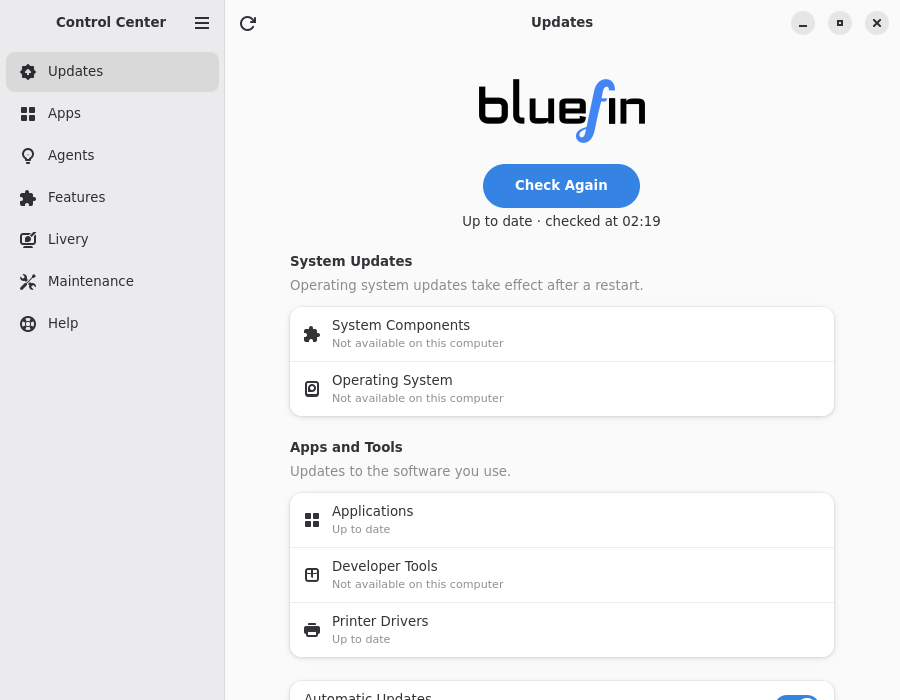
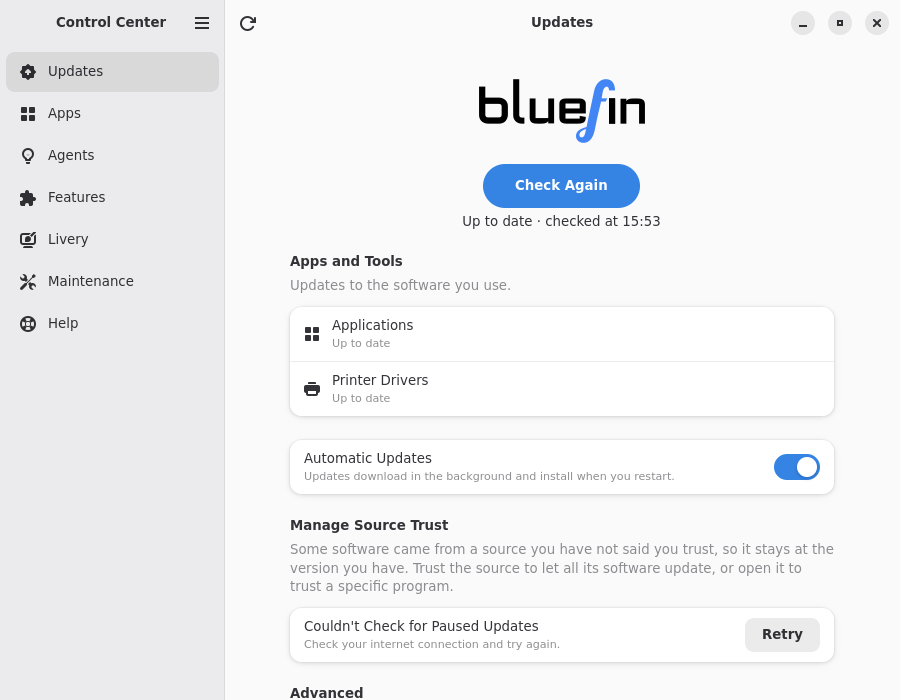
fix(updates): omit update sources this computer cannot use
The Updates page listed a row for every update source, including ones
nobody on the machine could use. In the report on #675 the page read
"Up to date · checked at 21:42" directly above "System Components —
Disabled by administrator" and "Operating System — Not available on this
computer", and the repository's own walkthrough screenshot carried the
same rows.

Neither string described anything the reader could change or act on, and
"Disabled by administrator" named an actor who may not exist: Bluefin
ships /usr/share/chairlift/config.yml with features_page.features_group
disabled because updex is not present on the image, so that source is off
in the image itself and no administrator has a choice to make.

updatepresent.ShowSourceRow now decides that a source configuration
disables for the whole machine, or that this host cannot back, gets no
row; renderSources filters through it and hides a group left with no rows.
A source the user merely turned off keeps its row, because Preferences is
where it can be turned back on, and Preferences still lists every source
with its lock reason, so nothing the application does not update becomes
undiscoverable. The remaining rows are exactly the sources the page
checked, so its single status line no longer has to qualify itself.

Verified: make ci (CI mirror passed); make e2e-atspi with
ATSPI_TAGS='@updates or @config' on Dakota (2 features passed, 46
scenarios passed, 0 failed); make screenshots regenerated
[…]

diff --git a/internal/views/update_shell.go b/internal/views/update_shell.go
@@ -707,9 +707,37 @@ func (s *UpdateShell) renderProgress(snapshot updateflow.Snapshot) {
 	}
 }
 
+// systemSource reports whether a source belongs to the "System Updates" group
+// rather than "Apps and Tools".
+func systemSource(id updateflow.SourceID) bool {
+	return id == updateflow.OperatingSystem || id == updateflow.SystemComponents
+}
+
 func (s *UpdateShell) renderSources(states []updateflow.SourceState) {
-	rebuild := len(states) != len(s.sourceRows)
+	// A source configuration disables, or that this host cannot back, gets no
+	// row at all (#675): its only possible subtitle would describe a state the
+	// reader can neither change nor act on. The remaining sources are the ones
+	// the page actually checked, so its status line no longer has to qualify
+	// itself. Preferences still lists every source, locked switch included.
+	shown := make([]updateflow.SourceState, 0, len(states))
+	systems, apps := false, false
 	for _, state := range states {
+		if !updatepresent.ShowSourceRow(state) {
+			continue
+		}
+		shown = append(shown, state)
+		if systemSource(state.ID) {
+			systems = true
+		} else {
+			apps = true
+		}
+	}
+	// An emptied group would render as a titled, described box with no rows.
+	s.systemGroup.SetVisible(systems)
+	s.appsGroup.SetVisible(apps)
+
+	rebuild := len(shown) != len(s.sourceRows)
+	for _, state := range shown {
 		row := s.sourceRows[state.ID]
 		if row == nil || !slices.Equal(row.items, state.Items) ||
 			row.enabled != (state.Configured && state.Available && state.Enabled) {
@@ -718,7 +746,7 @@ func (s *UpdateShell) renderSources(states []updateflow.SourceState) {
 		}
 	}
 	if !rebuild {
-		for _, state := range states {
+		for _, state := range shown {
 			s.sourceRows[state.ID].render(state, !s.Busy() && !updatepresent.ShowProgress(s.snapshot.Phase), s.restartInFlight.Load())
 		}
 		return
@@ -728,9 +756,9 @@ func (s *UpdateShell) renderSources(states []updateflow.SourceState) {
 	}
 	s.updateButtons.clear()
 	clear(s.sourceRows)
-	for _, state := range states {
+	for _, state := range shown {
 		group := s.appsGroup
-		if state.ID == updateflow.OperatingSystem || state.ID == updateflow.SystemComponents {
+		if systemSource(state.ID) {
 			group = s.systemGroup
 		}
 		s.sourceRows[state.ID] = newSourceRow(state, group, s)

diff --git a/internal/views/updatepresent/updatepresent_test.go b/internal/views/updatepresent/updatepresent_test.go
@@ -509,6 +509,32 @@ func TestSnapshotShowsLastCheckedTimeWhenCurrent(t *testing.T) {
 	}
 }
 
+// A source nobody on this machine can use gets no row: its subtitle could only
+// report a state the reader cannot change or act on (#675). A source the user
+// turned off keeps its row, because Preferences can turn it back on.
+func TestShowSourceRowOnlyForUsableSources(t *testing.T) {
+	tests := []struct {
+		name  string
+		state updateflow.SourceState
+		want  bool
+	}{
+		{"configured and available", updateflow.SourceState{Configured: true, Available: true}, true},
+		{"turned off in preferences", updateflow.SourceState{Configured: true, Available: true, Enabled: false}, true},
+		{"disabled in the shipped configuration", updateflow.SourceState{Configured: false, Available: true}, false},
+		{"this host cannot back it", updateflow.SourceState{Configured: true, Available: false}, false},
+		{"neither", updateflow.SourceState{Configured: false, Available: false}, false},
+		{"checking, still usable", updateflow.SourceState{Configured: true, Available: true, Checking: true}, true},
+		{"failed check, still usable", updateflow.SourceState{Configured: true, Available: true, CheckErr: errors.New("boom")}, true},
+	}
+	for _, tc := range tests {
+		t.Run(tc.name, func(t *testing.T) {
+			if got := ShowSourceRow(tc.state); got != tc.want {
+				t.Errorf("ShowSourceRow(%+v) = %v, want %v", tc.state, got, tc.want)
+			}
+		})
+	}
+}
+
 func TestSourceIconMapsProviderKinds(t *testing.T) {
 	tests := []struct {
 		id   updateflow.SourceID

diff --git a/internal/views/updatepresent/updatepresent.go b/internal/views/updatepresent/updatepresent.go
@@ -174,6 +174,21 @@ func soleItemSubtitle(item updateflow.Item) string {
 	}
 }
 
+// ShowSourceRow reports whether a source earns a row on the Updates page. A
+// source the administrator's configuration turns off for the whole machine, or
+// one this host cannot back, is not something this application manages here, so
+// it gets no row: a row whose only content is "you cannot use this" reports a
+// state the reader can neither change nor act on, and wording it as an
+// administrator's choice names an actor who may not exist — the shipped
+// Bluefin configuration disables system components in the image itself
+// (chairlift#675). A source the user merely turned off keeps its row, because
+// Preferences is where it can be turned back on. Preferences still lists every
+// source, so what the application does not update stays discoverable where a
+// reader would go looking to configure it.
+func ShowSourceRow(state updateflow.SourceState) bool {
+	return state.Configured && state.Available
+}
+
 // SourceIcon returns the symbolic icon for a source row. Each source has its
 // own, and Applications and System components match the sidebar's Apps and
 // Features, the pages that manage what they update.

diff --git a/test/e2e/features/steps/updates.py b/test/e2e/features/steps/updates.py
@@ -112,6 +112,25 @@ def step_progress_visibility(context, visibility):
     ), f"Updates progress bar is not {visibility}"
 
 
+@then('the Updates page shows no "{title}" row')
+def step_row_absent(context, title):
+    """A source nobody on this machine can use gets no row (#675).
+
+    Configuration that disables a source for the whole machine, and a host that
+    cannot back one, both leave the page: a row whose only content is "you
+    cannot use this" reports a state the reader can neither change nor act on.
+    """
+
+    def gone():
+        return not atspi.find_all(
+            content(context),
+            lambda n: atspi.role(n) in atspi.ROW_ROLES
+            and any(atspi.name(c) == title for c in atspi.descendants(n, only_showing=True)),
+        )
+
+    assert atspi.poll(gone), f"the Updates page still shows a {title!r} row"
+
+
 # ---------------------------------------------------------------- sidebar badge
 
 

diff --git a/docs/design/overview.md b/docs/design/overview.md
@@ -507,10 +507,15 @@ keeps the two facts apart: `buildUI`'s `sourcePolicy` hands
 `updateflow.Coordinator.Check` a `map[SourceID]updateflow.Policy` whose
 `Configured` is `Config.IsGroupEnabled` and whose `Supported` is
 `Set.Supports`. A source is checked only when both hold and its provider is
-available, exactly as the composed predicate would allow, but a source the host
-cannot back is reported unavailable ("Not available on this computer") rather
-than "Disabled by administrator", which `updatepresent` reserves for
-`Configured` false. The views' own "not installed" placeholder branches that
+available, exactly as the composed predicate would allow, and a source either
+fact leaves out is not listed on the Updates page at all
+(`updatepresent.ShowSourceRow`): a row whose only content would be "you cannot
+use this" reports a state the reader can neither change nor act on, and calling
+it an administrator's choice names an actor who may not exist — the shipped
+Bluefin configuration disables `features_page.features_group` in the image
+itself (#675). Preferences still lists every source, locked switch included, so
+what is not updated stays discoverable where a reader would go to configure it.
+The views' own "not installed" placeholder branches that
 the floor made unreachable were removed in #206.
 
 ### Package manager wrapper pattern
@@ -869,14 +874,17 @@ surface in three layers that must stay separate:
   or timed-out connection), "It took too long." for an exhausted deadline,
   and otherwise "Details are in the log." — a local Flatpak, Homebrew, or
   bootc failure is not told to check a connection it never used. The shell's
-  single-row update and tool-refresh failures use the same hint. A source
-  whose policy has `Configured` false reads "Disabled by administrator"; one
-  that is configured but not `Available` — the provider's own `Available`
-  probe says no, or `Policy.Supported` is false because the capability floor
-  cannot back it — reads "Not available on this computer". Both strings
-  come from `updatepresent.SourceLockReason`, which the Preferences dialog's
-  update-source rows (`pageview.UpdateSourcePreferenceSubtitle`) use too, so
-  the two surfaces never word one source differently. Such a locked source's
+  single-row update and tool-refresh failures use the same hint.
+  `updatepresent.ShowSourceRow` decides which sources get a row at all: one
+  that configuration disables for the whole machine (`Configured` false), or
+  one this host cannot back — the provider's own `Available` probe says no, or
+  `Policy.Supported` is false because the capability floor cannot back it —
+  gets none, and a group left without rows is hidden with them (#675).
+  `updatepresent.SourceLockReason` still supplies the two lock sentences
+  ("Disabled by administrator" for `Configured` false, "Not available on this
+  computer" otherwise), which the Preferences dialog's update-source rows
+  (`pageview.UpdateSourcePreferenceSubtitle`) use too, so the two surfaces
+  never word one source differently. Such a locked source's
   Preferences switch is shown off and insensitive and is not bound to its
   GSettings key (`pageview.UpdateSourcePreferenceLocked`): bound, it showed
   the stored preference — on — beside "Disabled by administrator". `ItemRows`

diff --git a/AGENTS.md b/AGENTS.md
@@ -392,9 +392,16 @@ An agent must not break these:
   The shell hands `Coordinator.Check` each source's `updateflow.Policy` from
   `internal/window`'s `sourcePolicy`, which keeps `Configured`
   (`Config.IsGroupEnabled`) and `Supported` (the capability floor) apart:
-  their conjunction is `effectiveEnabled`, but a source the host cannot back
-  must read "Not available on this computer", never "Disabled by
-  administrator". Do not collapse them back into one boolean map. The rest
+  their conjunction is `effectiveEnabled`, and a source either fact leaves out
+  gets no row on the Updates page at all (`updatepresent.ShowSourceRow`,
+  chairlift#675). A row whose only content would be "you cannot use this"
+  reports a state the reader can neither change nor act on, and wording it as
+  an administrator's choice names an actor who may not exist — Bluefin's own
+  `/usr/share/chairlift/config.yml` ships `features_page.features_group`
+  disabled. A source the user merely turned off keeps its row, because
+  Preferences is where it can be turned back on, and Preferences still lists
+  every source with its lock reason. Do not collapse the two facts back into
+  one boolean map. The rest
   of the Updates page — automatic updates, system version, dedicated staging
   and Compare, unverified sources, and Advanced channel/driver controls — is
   built by `buildUpdatesPage` as groups of the shell's own preferences page

diff --git a/docs/walkthrough.md b/docs/walkthrough.md
@@ -39,13 +39,15 @@ updating**. If something went wrong, a second line says what. **System
 Updates** groups System Components and Operating System; **Apps and Tools**
 groups Applications, Developer Tools and, on computers that can run printer
 drivers, Printer Drivers. Each row shows its own state, so you
-can see which source is holding you up without opening anything. A source
-your administrator turned off says **Disabled by administrator**; one this
-computer has no software for says **Not available on this computer** instead.
+can see which source is holding you up without opening anything. Only the
+sources this computer can manage are listed at all, so a source it does not
+update is absent rather than explained at length, and a group whose sources all
+drop out goes with them.
 **Preferences** (Ctrl+,) has a switch per source: a source you turn off there
 says **Disabled in preferences** as soon as you change it, and a source you
-cannot turn on shows its switch off, greyed out, with the same words as its row
-here.
+cannot turn on shows its switch off, greyed out, with **Disabled by
+administrator** or **Not available on this computer** saying which fact
+excludes it.
 
 One button covers all of them. It reads **Check Again** when nothing is
 pending, **Update All** when something is, and **Retry Failed** if a source

diff --git a/README.md b/README.md
@@ -70,9 +70,14 @@ so they cost nothing on any other host.
 ### 🔄 Unified Updates
 
 The Updates page leads with the system's status — "Up to date · checked at …", or
-how many updates are waiting — above an **Update Sources** list of the five
-things that can be updated: Applications, Developer Tools, Printer Drivers,
-System Components, and Operating System. One primary action covers all of them: **Check Again**
+how many updates are waiting — above an **Update Sources** list naming the five
+kinds of thing it can update: Applications, Developer Tools, Printer Drivers,
+System Components, and Operating System. Only the sources this computer can
+actually manage are listed, so one it cannot use — a backing tool that is not
+here, or a source switched off for the whole machine by the image or by an
+administrator — is absent rather than explained at length; **Preferences**
+still lists every source, with its switch off and the reason. One primary
+action covers all of them: **Check Again**
 when nothing is pending, **Update All** when something is, and **Retry Failed**
 when a source did not finish. Once an OS image is staged, the **Operating
 System** row carries its own **Restart Now** suffix instead.

diff --git a/docs/design/package-managers.md b/docs/design/package-managers.md
@@ -131,6 +131,12 @@ output; idle, determinate progress and disposal remove the timer. Its visible
 toast overlay announces each phase's one status line, which sits under the
 primary action.
 `Presentation.ShowStatus` hides an empty header.
+`updatepresent.ShowSourceRow` decides which sources get a row: one that
+configuration disables for the whole machine, or that this host cannot back,
+gets none, and a source group left empty is hidden with them (#675). The
+remaining rows are exactly the sources the page checked, so its single status
+line needs no qualifier. Preferences still lists every source with its lock
+reason, so nothing the application does not update becomes undiscoverable.
 `buildUpdatesPage` appends the rest of the Updates page to the shell's own
 preferences page (`UpdateShell.PreferencesPage`), beneath the source rows;
 automatic updates, system version, unverified sources and

diff --git a/CONFIG.md b/CONFIG.md
@@ -322,7 +322,12 @@ Do not install defaults over administrator-owned `/etc/chairlift/config.yml`.
 
 ## Notes
 
-- Groups with `enabled: false` will be completely hidden from the UI
+- A group with `enabled: false` is not built on the page that owns it, so its
+  controls never appear. An update source is likewise given no row on the
+  Updates page when configuration excludes it or this host's capability floor
+  cannot back it (chairlift#675); the Preferences dialog still lists every
+  source, with an excluded one's switch off and its subtitle naming which of
+  the two facts excludes it
 - A configuration file is applied as an overlay on top of the built-in
   defaults, field by field, not as a full replacement:
   - An omitted `enabled` key inherits that group's documented default

diff --git a/docs/index.md b/docs/index.md
@@ -66,8 +66,9 @@ Runtime visibility depends on the group:
 - the Homebrew untrusted-taps group stays hidden unless actionable taps exist;
 - Agents is hidden where Homebrew is absent, because Agent Mode installs
   llmman through it;
-- Apps requires Homebrew; Updates groups for Homebrew and Flatpak are omitted
-  by the capability floor when their backing tool is absent; a tool that is
+- Apps requires Homebrew; an Updates source whose backing tool is absent is
+  omitted from the page by the capability floor, as is one configuration
+  excludes for the whole machine; a tool that is
   present but fails reports the failure in its row;
 - Features hides its optional-features group when Updex lists none, and keeps
   it with an error description when the listing fails;
